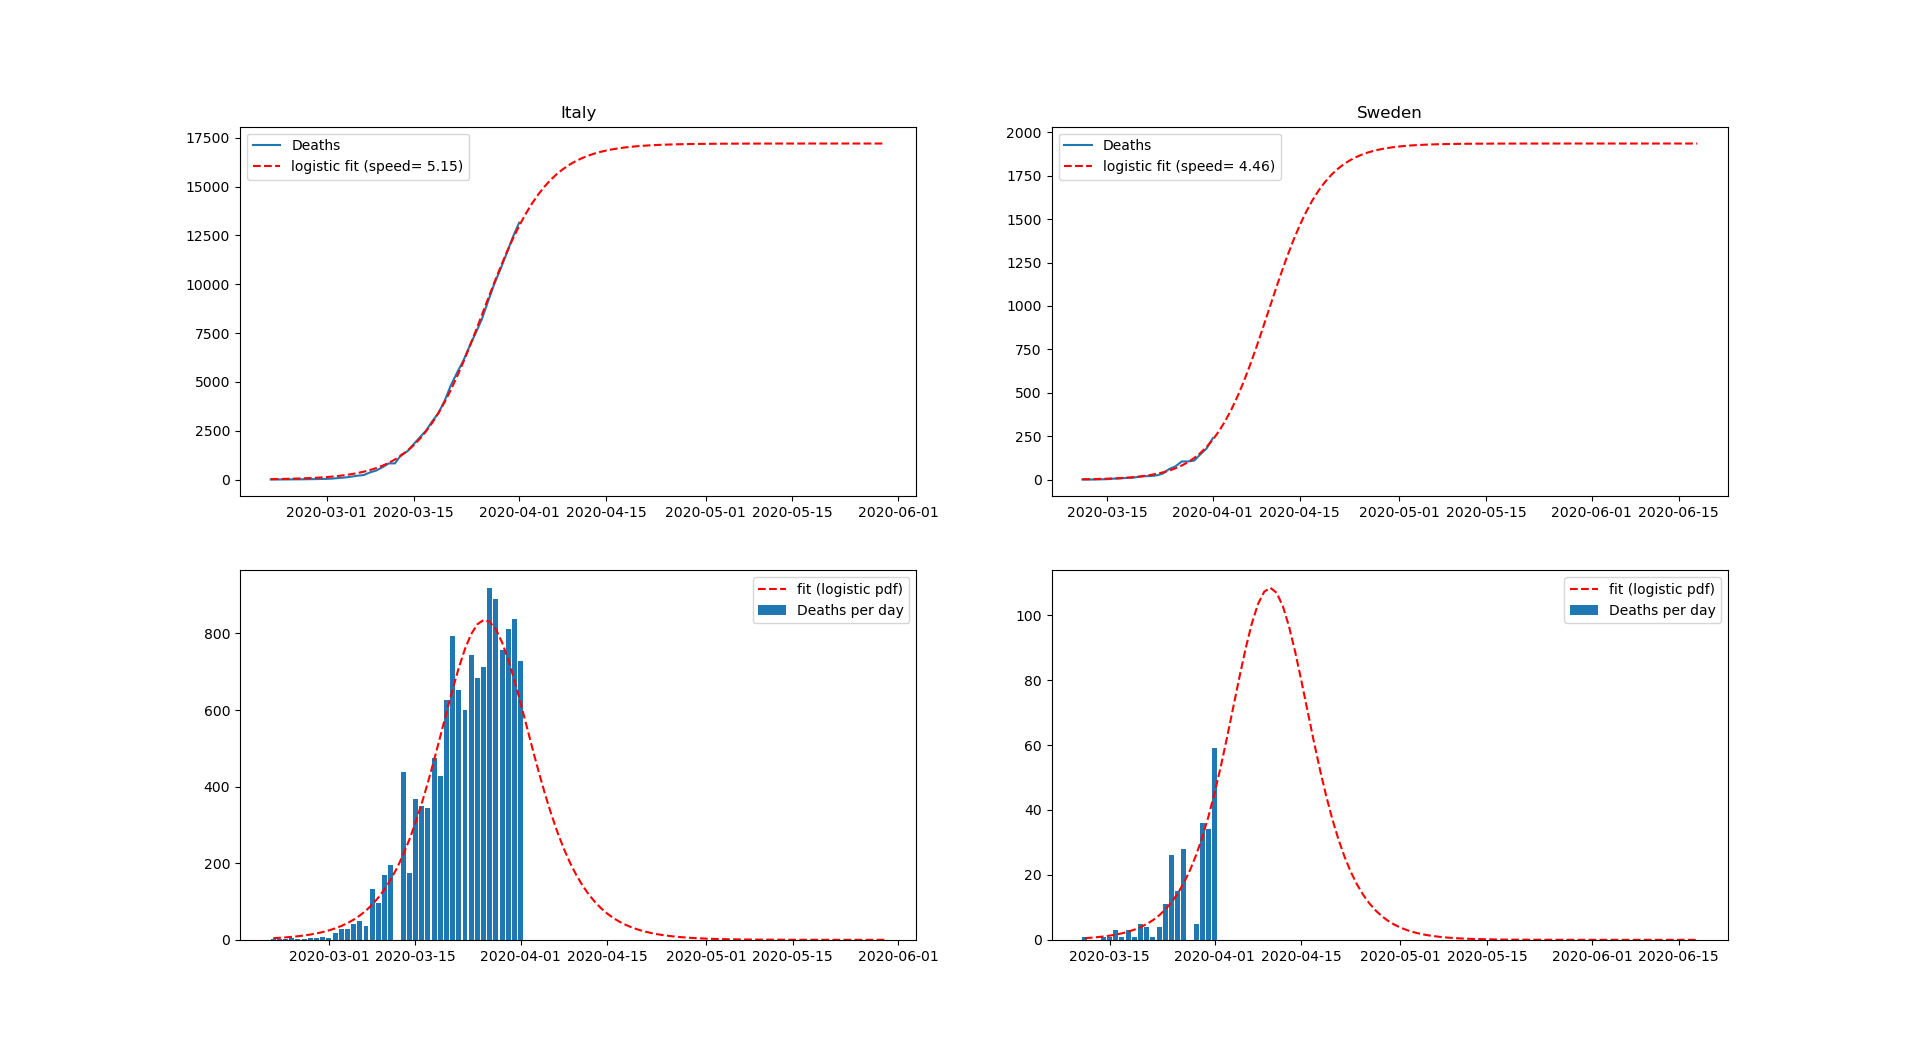
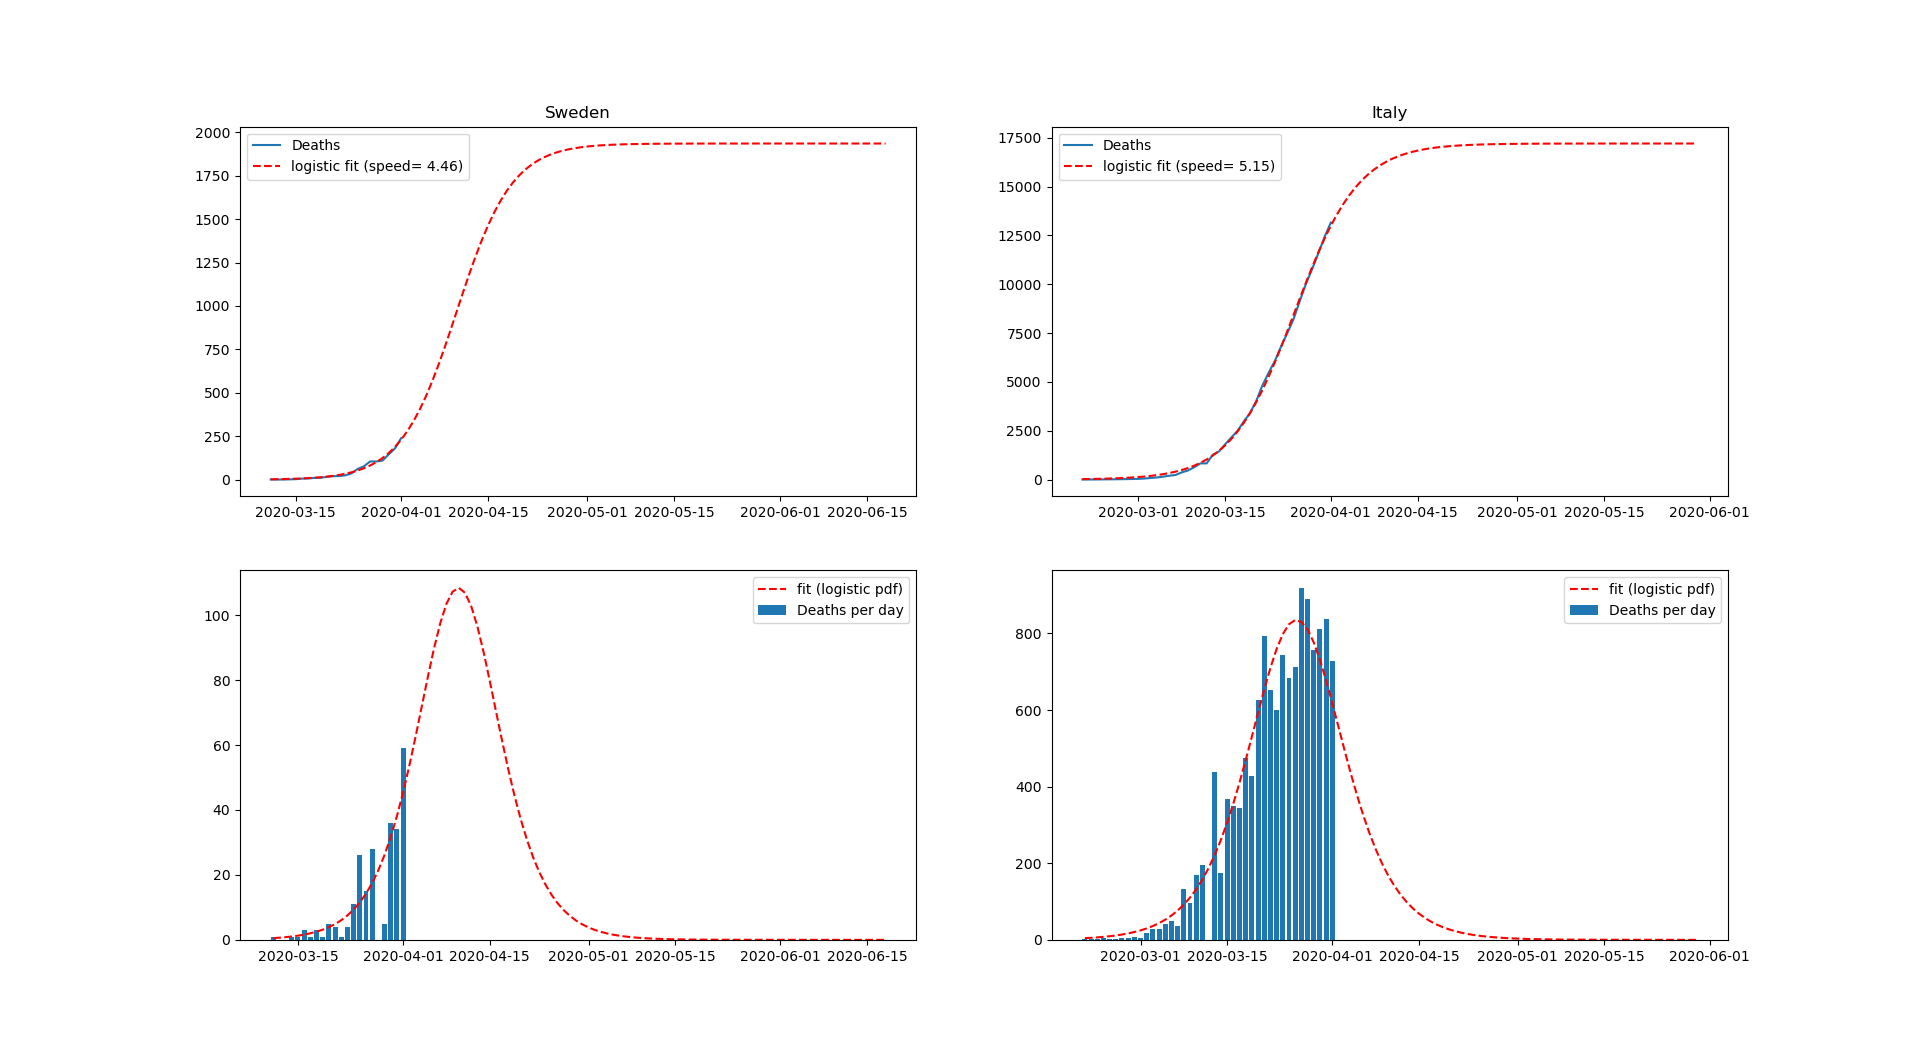
Update April 2

diff --git a/logistic_analyse.py b/logistic_analyse.py
@@ -87,7 +87,7 @@ def prepare(df, country, xhat=np.arange(0,100)):
 def fit(df, data_label=None, countries=['Sweden'], p0=None):
     # Init plot
     Nc = len(countries)
-    nax = (Nc,2)    
+    nax = (2,Nc)    
     fig, axes = plt.subplots(nrows=nax[0], ncols=nax[1])
      
     output = {} 
@@ -141,7 +141,7 @@ def fit(df, data_label=None, countries=['Sweden'], p0=None):
     #%%
 #countries = ['ChinaHubei','Italy','Spain','France','US','United Kingdom']
 #countries = ['Italy','Germany','Finland','Norway','Denmark','Sweden']
-countries=['Italy','Sweden']
+countries=['Sweden','Italy']
 
 #m = fit(df_cases, data_label='Confirmed cases', countries=countries, p0=[5,50,10000])
 m = fit(df_deaths, data_label='Deaths', countries=countries, p0=[5,20,2000])
